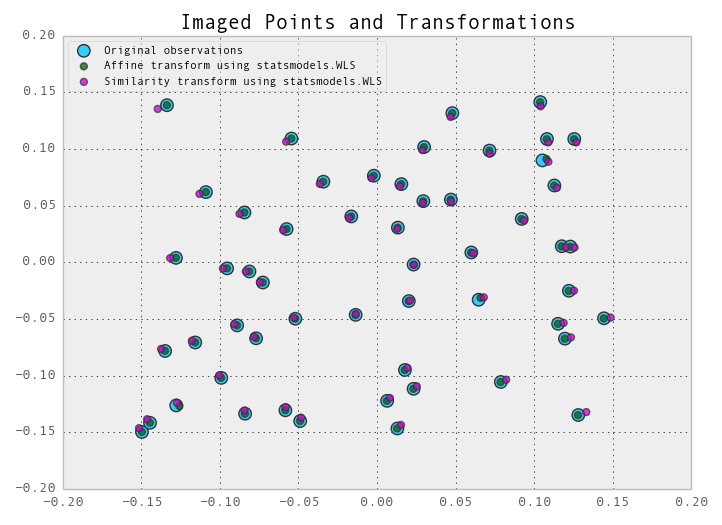
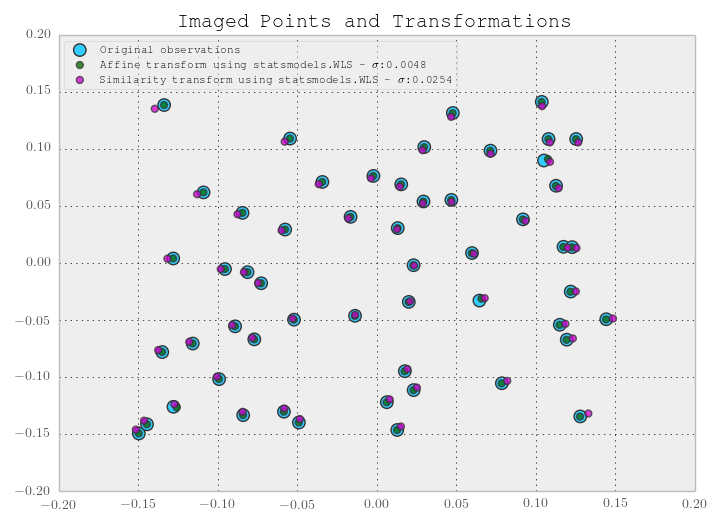
Render regression standard error in figure

diff --git a/README.md b/README.md
@@ -17,11 +17,11 @@ The design matrix for the affine transform is given by the following two equatio
 
 ![affine](http://latex.codecogs.com/png.latex?f_i%28a_0%2Ca_1%2Ca_2%29%20%3D%20a_0&plus;a_1x_i&plus;a_2y_i%5C%5C%20f_i%28b_0%2Cb_1%2Cb_2%29%20%3D%20b_0&plus;b_1x_i&plus;b_2y_i "Affine Transform")
 
-The **b** vector for both design matrices is identical: all x observations, followed by all y observations. The covariance matrix, **Cb**, must be given to statsmodels as a vector, in the form of the inverse of the variance of all *x* observations, followed by the variance of all *y* observations.
+The **b** vector for both design matrices is identical: all *x* observations, followed by all *y* observations. The covariance matrix, **Cb**, must be given to statsmodels as a vector, in the form of the inverse of the variance of all *x* observations, followed by the variance of all *y* observations.
 
 Data is contained in pickled pandas objects in the data directory.
 
-[coordinates.pickle](data/coordinates.pickle) contains observed coordinates. This DataFrame is updated with affine and similarity residuals, and new `x` and `y` values for each transform.
+[coordinates.pickle](data/coordinates.pickle) contains observed coordinates. This DataFrame is updated with affine and similarity residuals, and new *x* and *y* values for each transform.
 
 It's apparent from the scatter plot that the affine transformation is the more accurate of the two, however we can compare the quality of the two transformations by obtaining the sigma zero value, which is the standard error of the *weighted residual variance* for each transform, and can be calculated by taking the square root of the `mse_resid` or `scale` attribute of the result object:  
 **Standard error of the affine transform**: 0.0048  
